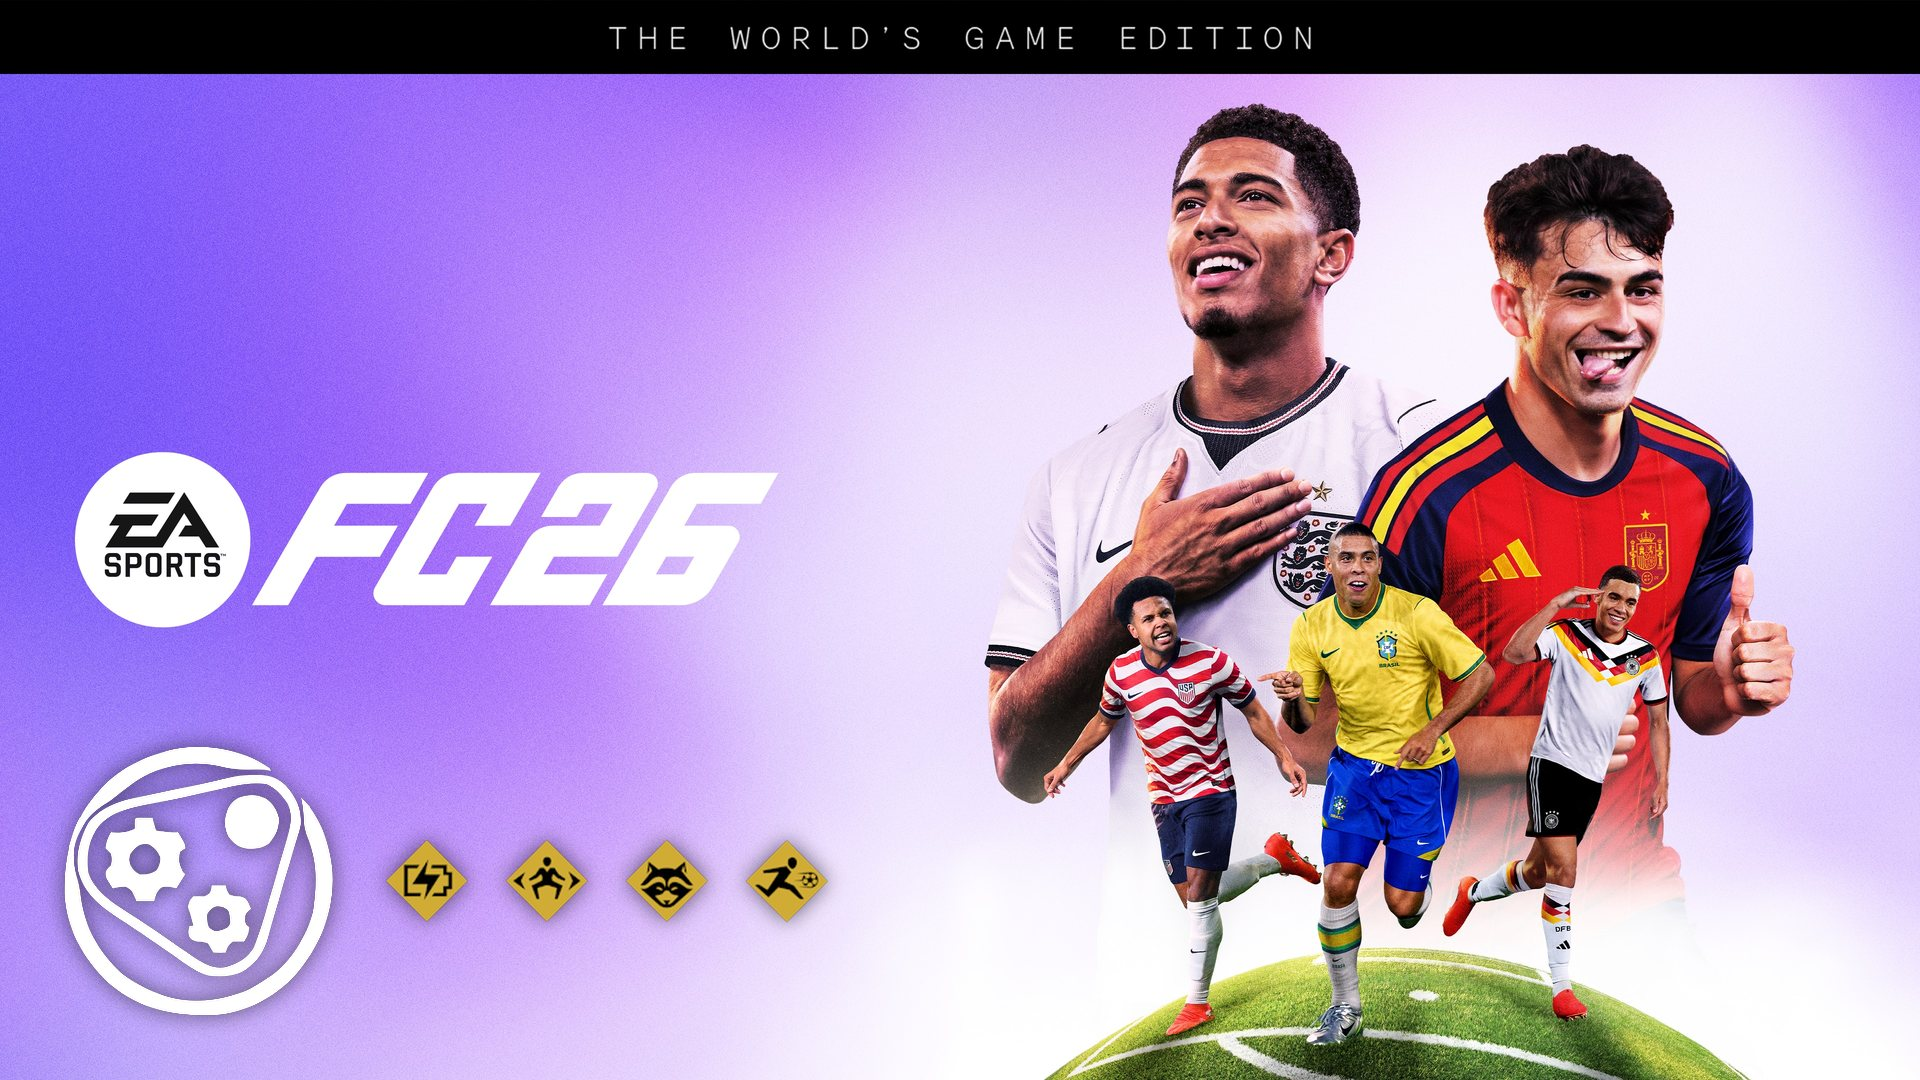
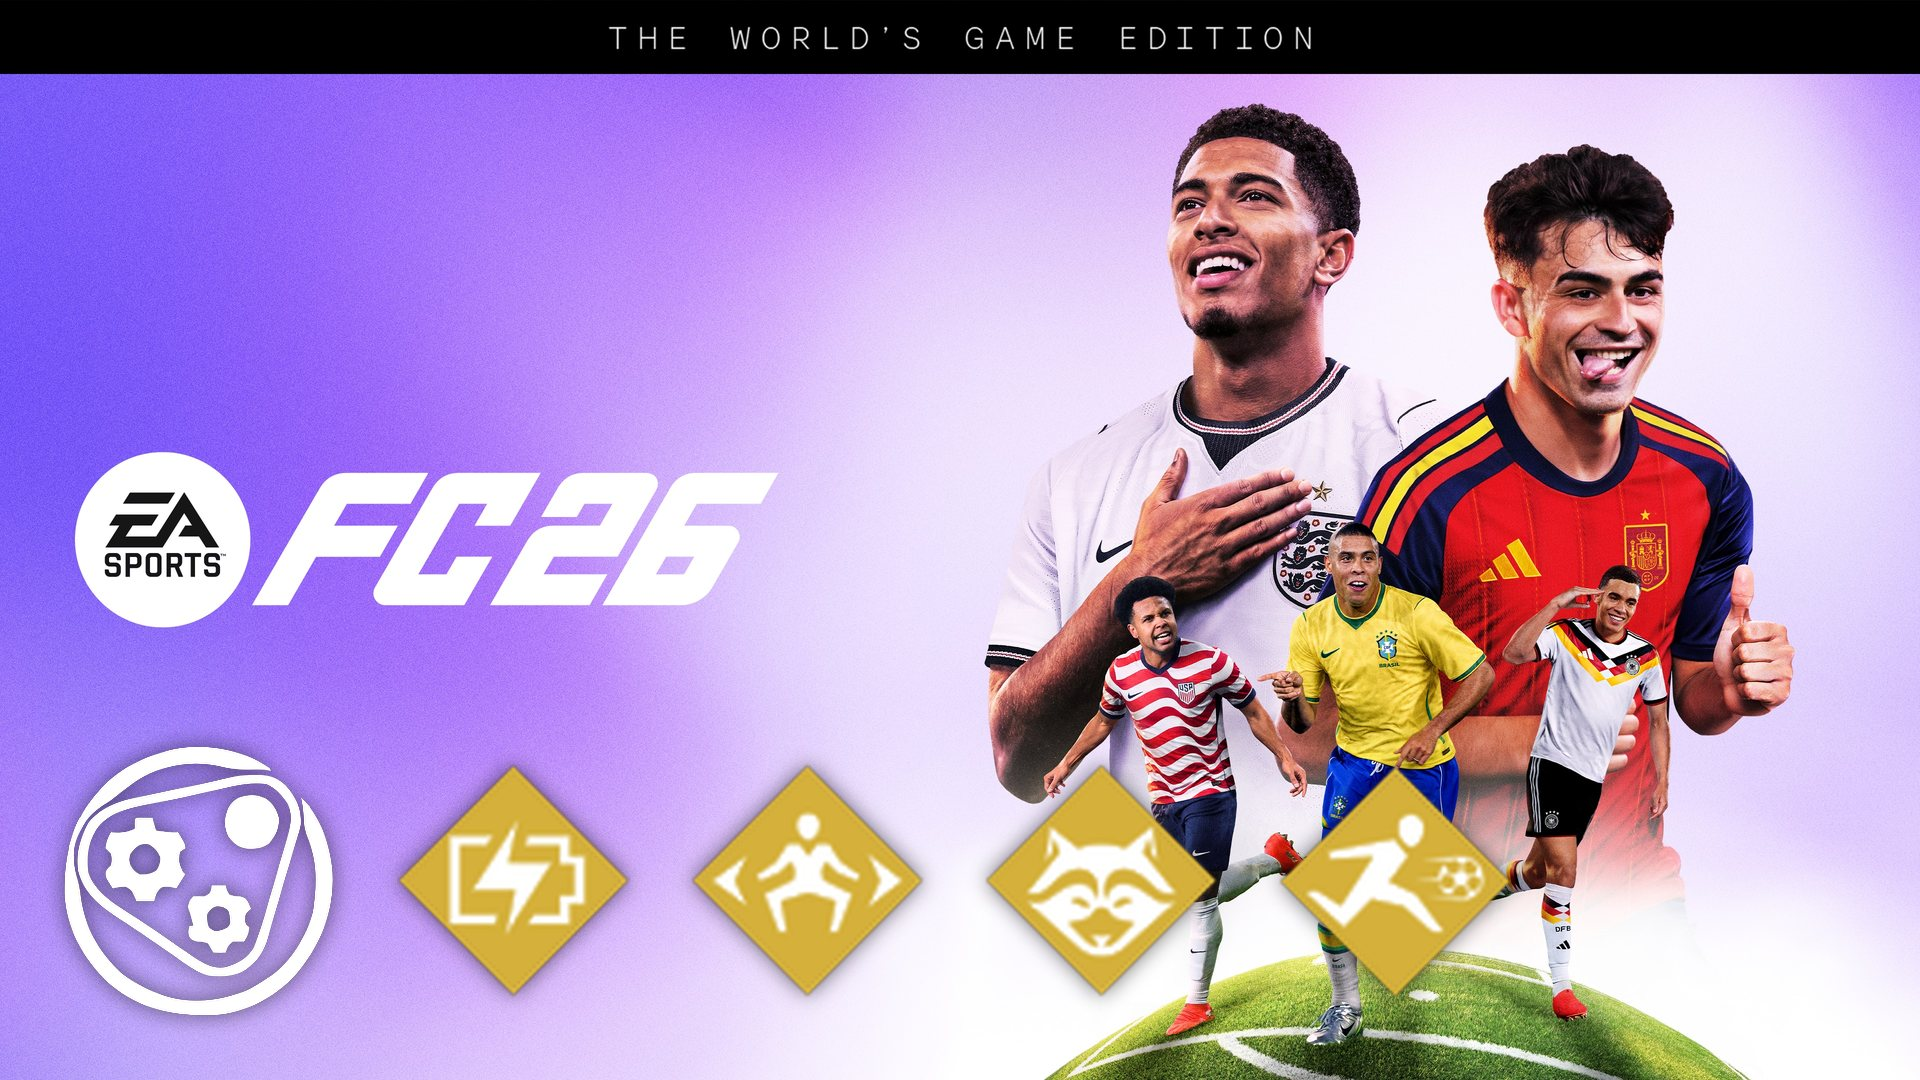
Spoke covers v5: signature badges at full glyph size, gold-white pictograms

Changed region(s): [[0.1875, 0.7028, 0.8125, 0.9472]]

diff --git a/gen/make-spoke-feats.py b/gen/make-spoke-feats.py
@@ -34,7 +34,7 @@ SIGNATURE = {a['id']: a['signature']
              for a in json.load(open(os.path.join(ROOT, 'data', 'archetypes.json')))}
 
 ICON_H = 270          # archetype glyph height on the 1920x1080 canvas
-PS_H = 96             # signature PlayStyle glyph height
+PS_H = ICON_H         # signature PlayStyle badges match the glyph (user's call)
 PS_GAP = 24           # between PlayStyle glyphs
 PS_LEAD = 46          # between the archetype glyph and the first PlayStyle
 MARGIN = 64           # from the bottom-left corner
@@ -63,14 +63,16 @@ def ps_gold(slug):
     """The app's PlayStyle badge recoloured signature-gold.
 
     The source PNGs are a near-white diamond plate with the pictogram drawn
-    in opaque BLACK — not as transparency. A multiply tint therefore does
-    exactly the right thing: the plate goes gold, the pictogram stays dark,
-    antialiased edges scale in between, and the alpha channel is untouched.
+    in opaque BLACK — not as transparency. Luminance drives a gold↔white
+    blend: the plate goes gold, the pictogram goes WHITE (gold-white, per
+    the user — not gold-black), antialiased edges interpolate, and the alpha
+    channel is untouched.
     """
-    from PIL import ImageChops
     im = Image.open(os.path.join(PS_ICONS, f'{slug}.png')).convert('RGBA')
-    tinted = ImageChops.multiply(im.convert('RGB'), Image.new('RGB', im.size, GOLD))
-    out = tinted.convert('RGBA')
+    lum = im.convert('L')
+    blend = Image.composite(Image.new('RGB', im.size, GOLD),
+                            Image.new('RGB', im.size, (255, 255, 255)), lum)
+    out = blend.convert('RGBA')
     out.putalpha(im.getchannel('A'))
     return out.resize((round(im.width * PS_H / im.height), PS_H), Image.LANCZOS)
 
